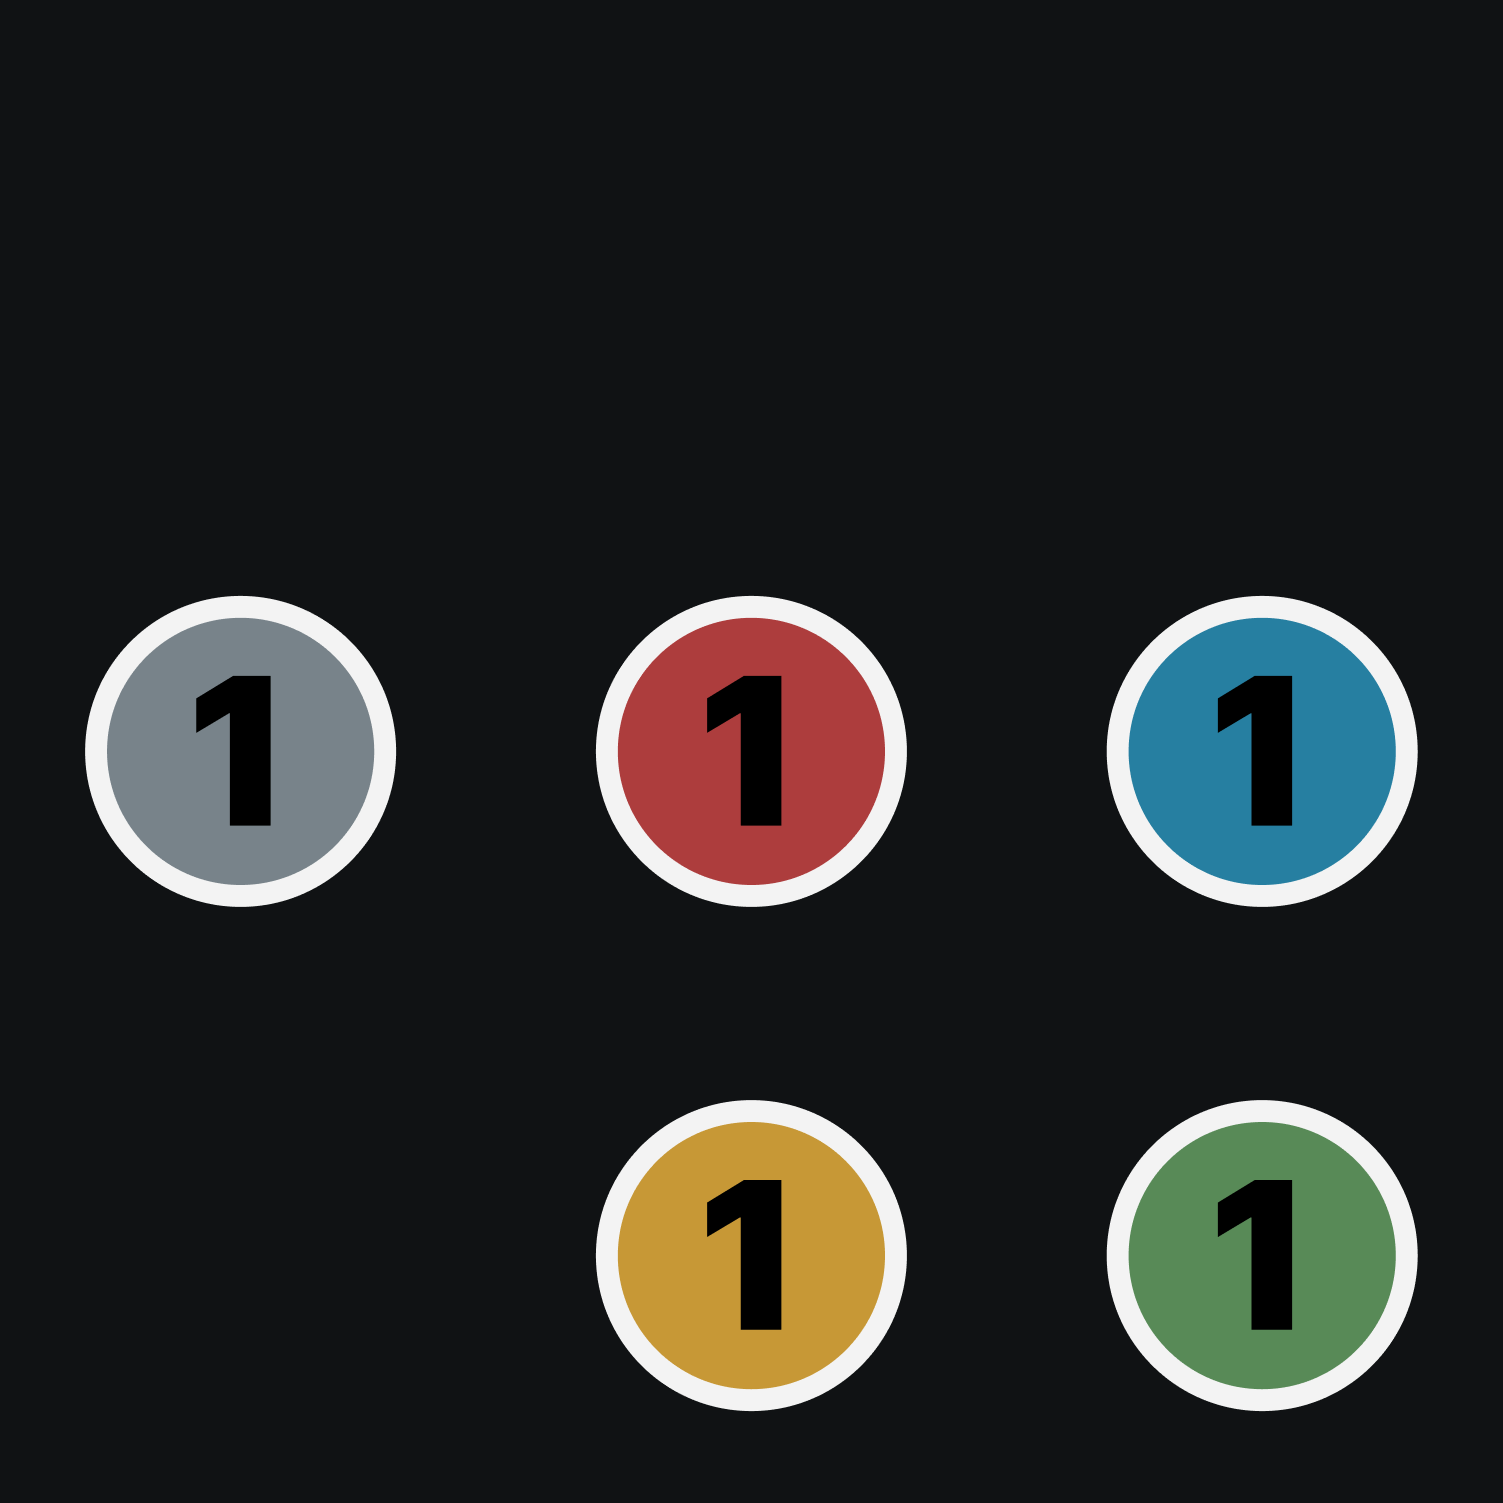
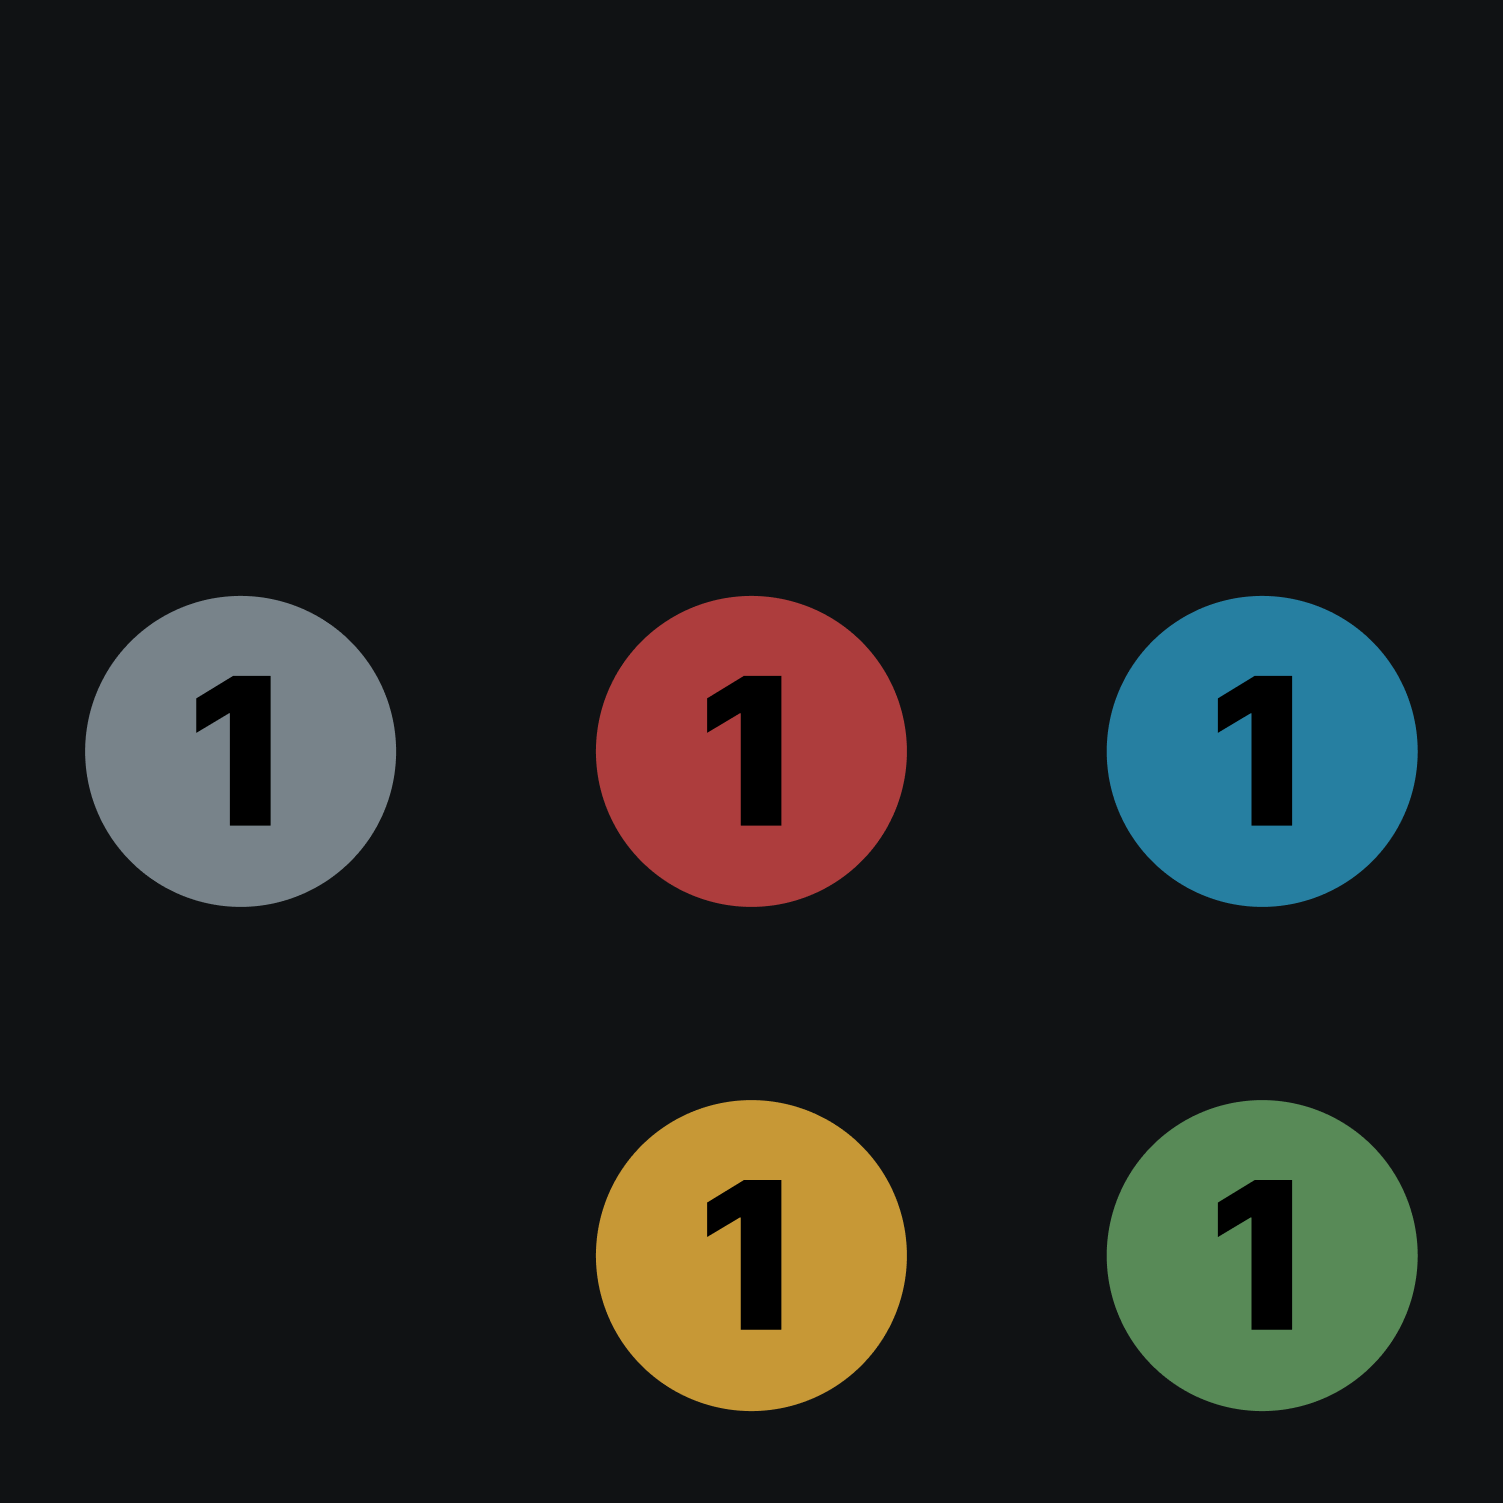
Refresh all nine Page 7 dice textures

diff --git a/docs/catalog.js b/docs/catalog.js
@@ -1,1 +1,1 @@
-window.FRONTIER_CATALOG = {"source": "Figma Page 7 Game components slice 688:2058", "boards": [{"title": "Main board", "figmaId": "688:2174", "path": "assets/boards/board-main-e46ceed54f.png", "width": 4096, "height": 2960, "revision": "50230d0bb0"}], "cards": [{"title": "Action Guide", "figmaId": "688:780", "path": "assets/cards/card-action-guide-6323e6fee4.png", "width": 506, "height": 729, "revision": "32b6b7b4d4"}, {"title": "Region Bonus Guide", "figmaId": "688:830", "path": "assets/cards/card-region-bonus-guide-800eb32bd9.png", "width": 759, "height": 1098, "revision": "9f711bb71c"}], "references": [], "decks": [{"title": "Monuments", "figmaId": "688:1220", "count": 30, "columns": 6, "rows": 5, "cardWidth": 442, "cardHeight": 640, "face": {"path": "assets/decks/monuments-faces-d44fdccb0e.png", "width": 2652, "height": 3200, "revision": "47f2ccde81"}, "back": {"path": "assets/decks/monuments-back-a65fba90e2.png", "width": 442, "height": 640, "revision": "abfd3f1891"}}, {"title": "Objectives", "figmaId": "688:861", "count": 18, "columns": 6, "rows": 3, "cardWidth": 388, "cardHeight": 519, "face": {"path": "assets/decks/objectives-faces-4d91a50427.png", "width": 2328, "height": 1557, "revision": "c136cf96fc"}, "back": {"path": "assets/decks/objectives-back-c08c78cc67.png", "width": 388, "height": 519, "revision": "cc7db17312"}}, {"title": "Specials", "figmaId": "688:1906", "count": 19, "columns": 5, "rows": 4, "cardWidth": 443, "cardHeight": 704, "face": {"path": "assets/decks/specials-faces-adc1172863.png", "width": 2215, "height": 2816, "revision": "25ad4c82e8"}, "back": {"path": "assets/decks/specials-back-0b946676e3.png", "width": 443, "height": 704, "revision": "a348395311"}}], "dice": [{"title": "Dice 1", "figmaId": "688:2775", "path": "assets/dice/dice-1.png", "width": 1503, "height": 1503, "revision": "b23382c1e4"}, {"title": "Dice 2", "figmaId": "688:2809", "path": "assets/dice/dice-2.png", "width": 1503, "height": 1503, "revision": "8b0fe6a44d"}, {"title": "Dice 3", "figmaId": "688:2792", "path": "assets/dice/dice-3.png", "width": 1503, "height": 1503, "revision": "05e558f09b"}, {"title": "Dice 4", "figmaId": "688:2826", "path": "assets/dice/dice-4.png", "width": 1503, "height": 1503, "revision": "f71669f88a"}, {"title": "Dice 11", "figmaId": "697:2993", "path": "assets/dice/dice-11.png", "width": 1243, "height": 1243, "revision": "429c5e3f3b"}, {"title": "Dice 22", "figmaId": "697:3173", "path": "assets/dice/dice-22.png", "width": 1243, "height": 1243, "revision": "a7822950e2"}, {"title": "Dice 33", "figmaId": "697:3193", "path": "assets/dice/dice-33.png", "width": 1243, "height": 1243, "revision": "88533849d3"}, {"title": "Dice 44", "figmaId": "697:3213", "path": "assets/dice/dice-44.png", "width": 1243, "height": 1243, "revision": "90ca86fb9c"}, {"title": "Dice 55", "figmaId": "697:3233", "path": "assets/dice/dice-55.png", "width": 1243, "height": 1243, "revision": "60a88e59d3"}], "tokens": [{"title": "Build 4", "figmaId": "688:752", "path": "assets/tokens/action-tile-1-fb100c9aa5.png", "width": 426, "height": 426, "revision": "989ae47648"}, {"title": "Region Bonus", "figmaId": "688:777", "path": "assets/tokens/action-tile-2-7107aa55c8.png", "width": 426, "height": 426, "revision": "649b646ee8"}, {"title": "Build 3 — Blue", "figmaId": "688:608", "path": "assets/tokens/action-tile-3.png", "width": 427, "height": 427, "revision": "c6c06dbd7d"}, {"title": "Action Upgrade +2", "figmaId": "688:774", "path": "assets/tokens/action-tile-6-813e8438d5.png", "width": 426, "height": 426, "revision": "d2a8f29a2f"}, {"title": "Build 3", "figmaId": "688:586", "path": "assets/tokens/action-tile-7-7d3d7a7703.png", "width": 426, "height": 426, "revision": "d137d4bdfe"}, {"title": "Move — Blue Yellow Gray", "figmaId": "688:674", "path": "assets/tokens/action-tile-9.png", "width": 427, "height": 427, "revision": "3d2c6d9614"}, {"title": "Build 3 — Gray", "figmaId": "688:630", "path": "assets/tokens/action-tile-11.png", "width": 427, "height": 427, "revision": "2529bdb0a3"}, {"title": "Build 3 — Red", "figmaId": "688:652", "path": "assets/tokens/action-tile-12.png", "width": 427, "height": 427, "revision": "311d42f308"}, {"title": "Move — Blue Yellow", "figmaId": "688:700", "path": "assets/tokens/action-tile-13.png", "width": 427, "height": 427, "revision": "1b44f97706"}, {"title": "Move — Yellow Red", "figmaId": "688:726", "path": "assets/tokens/action-tile-14.png", "width": 427, "height": 427, "revision": "d6157b7006"}]};
+window.FRONTIER_CATALOG = {"source": "Figma Page 7 Game components slice 688:2058", "boards": [{"title": "Main board", "figmaId": "688:2174", "path": "assets/boards/board-main-e46ceed54f.png", "width": 4096, "height": 2960, "revision": "50230d0bb0"}], "cards": [{"title": "Action Guide", "figmaId": "688:780", "path": "assets/cards/card-action-guide-6323e6fee4.png", "width": 506, "height": 729, "revision": "32b6b7b4d4"}, {"title": "Region Bonus Guide", "figmaId": "688:830", "path": "assets/cards/card-region-bonus-guide-800eb32bd9.png", "width": 759, "height": 1098, "revision": "9f711bb71c"}], "references": [], "decks": [{"title": "Monuments", "figmaId": "688:1220", "count": 30, "columns": 6, "rows": 5, "cardWidth": 442, "cardHeight": 640, "face": {"path": "assets/decks/monuments-faces-d44fdccb0e.png", "width": 2652, "height": 3200, "revision": "47f2ccde81"}, "back": {"path": "assets/decks/monuments-back-a65fba90e2.png", "width": 442, "height": 640, "revision": "abfd3f1891"}}, {"title": "Objectives", "figmaId": "688:861", "count": 18, "columns": 6, "rows": 3, "cardWidth": 388, "cardHeight": 519, "face": {"path": "assets/decks/objectives-faces-4d91a50427.png", "width": 2328, "height": 1557, "revision": "c136cf96fc"}, "back": {"path": "assets/decks/objectives-back-c08c78cc67.png", "width": 388, "height": 519, "revision": "cc7db17312"}}, {"title": "Specials", "figmaId": "688:1906", "count": 19, "columns": 5, "rows": 4, "cardWidth": 443, "cardHeight": 704, "face": {"path": "assets/decks/specials-faces-adc1172863.png", "width": 2215, "height": 2816, "revision": "25ad4c82e8"}, "back": {"path": "assets/decks/specials-back-0b946676e3.png", "width": 443, "height": 704, "revision": "a348395311"}}], "dice": [{"title": "Dice 1", "figmaId": "688:2775", "path": "assets/dice/dice-1.png", "width": 1503, "height": 1503, "revision": "f6e7a68519"}, {"title": "Dice 2", "figmaId": "688:2809", "path": "assets/dice/dice-2.png", "width": 1503, "height": 1503, "revision": "1b0198594f"}, {"title": "Dice 3", "figmaId": "688:2792", "path": "assets/dice/dice-3.png", "width": 1503, "height": 1503, "revision": "d3b4453c02"}, {"title": "Dice 4", "figmaId": "688:2826", "path": "assets/dice/dice-4.png", "width": 1503, "height": 1503, "revision": "ac4b4e499b"}, {"title": "Dice 11", "figmaId": "697:2993", "path": "assets/dice/dice-11.png", "width": 1243, "height": 1243, "revision": "5337b3846b"}, {"title": "Dice 22", "figmaId": "697:3173", "path": "assets/dice/dice-22.png", "width": 1243, "height": 1243, "revision": "8618f9aa06"}, {"title": "Dice 33", "figmaId": "697:3193", "path": "assets/dice/dice-33.png", "width": 1243, "height": 1243, "revision": "edca4adeda"}, {"title": "Dice 44", "figmaId": "697:3213", "path": "assets/dice/dice-44.png", "width": 1243, "height": 1243, "revision": "2b5cd1f078"}, {"title": "Dice 55", "figmaId": "697:3233", "path": "assets/dice/dice-55.png", "width": 1243, "height": 1243, "revision": "2c984b4d21"}], "tokens": [{"title": "Build 4", "figmaId": "688:752", "path": "assets/tokens/action-tile-1-fb100c9aa5.png", "width": 426, "height": 426, "revision": "989ae47648"}, {"title": "Region Bonus", "figmaId": "688:777", "path": "assets/tokens/action-tile-2-7107aa55c8.png", "width": 426, "height": 426, "revision": "649b646ee8"}, {"title": "Build 3 — Blue", "figmaId": "688:608", "path": "assets/tokens/action-tile-3.png", "width": 427, "height": 427, "revision": "c6c06dbd7d"}, {"title": "Action Upgrade +2", "figmaId": "688:774", "path": "assets/tokens/action-tile-6-813e8438d5.png", "width": 426, "height": 426, "revision": "d2a8f29a2f"}, {"title": "Build 3", "figmaId": "688:586", "path": "assets/tokens/action-tile-7-7d3d7a7703.png", "width": 426, "height": 426, "revision": "d137d4bdfe"}, {"title": "Move — Blue Yellow Gray", "figmaId": "688:674", "path": "assets/tokens/action-tile-9.png", "width": 427, "height": 427, "revision": "3d2c6d9614"}, {"title": "Build 3 — Gray", "figmaId": "688:630", "path": "assets/tokens/action-tile-11.png", "width": 427, "height": 427, "revision": "2529bdb0a3"}, {"title": "Build 3 — Red", "figmaId": "688:652", "path": "assets/tokens/action-tile-12.png", "width": 427, "height": 427, "revision": "311d42f308"}, {"title": "Move — Blue Yellow", "figmaId": "688:700", "path": "assets/tokens/action-tile-13.png", "width": 427, "height": 427, "revision": "1b44f97706"}, {"title": "Move — Yellow Red", "figmaId": "688:726", "path": "assets/tokens/action-tile-14.png", "width": 427, "height": 427, "revision": "d6157b7006"}]};

diff --git a/docs/index.html b/docs/index.html
@@ -6,7 +6,7 @@
   <meta name="theme-color" content="#12171c">
   <title>Frontier · Tabletop Simulator assets</title>
   <link rel="stylesheet" href="styles.css?v=3">
-  <script defer src="catalog.js?v=2fb423ab27"></script>
+  <script defer src="catalog.js?v=406ab217ea"></script>
   <script defer src="app.js?v=8"></script>
 </head>
 <body>
